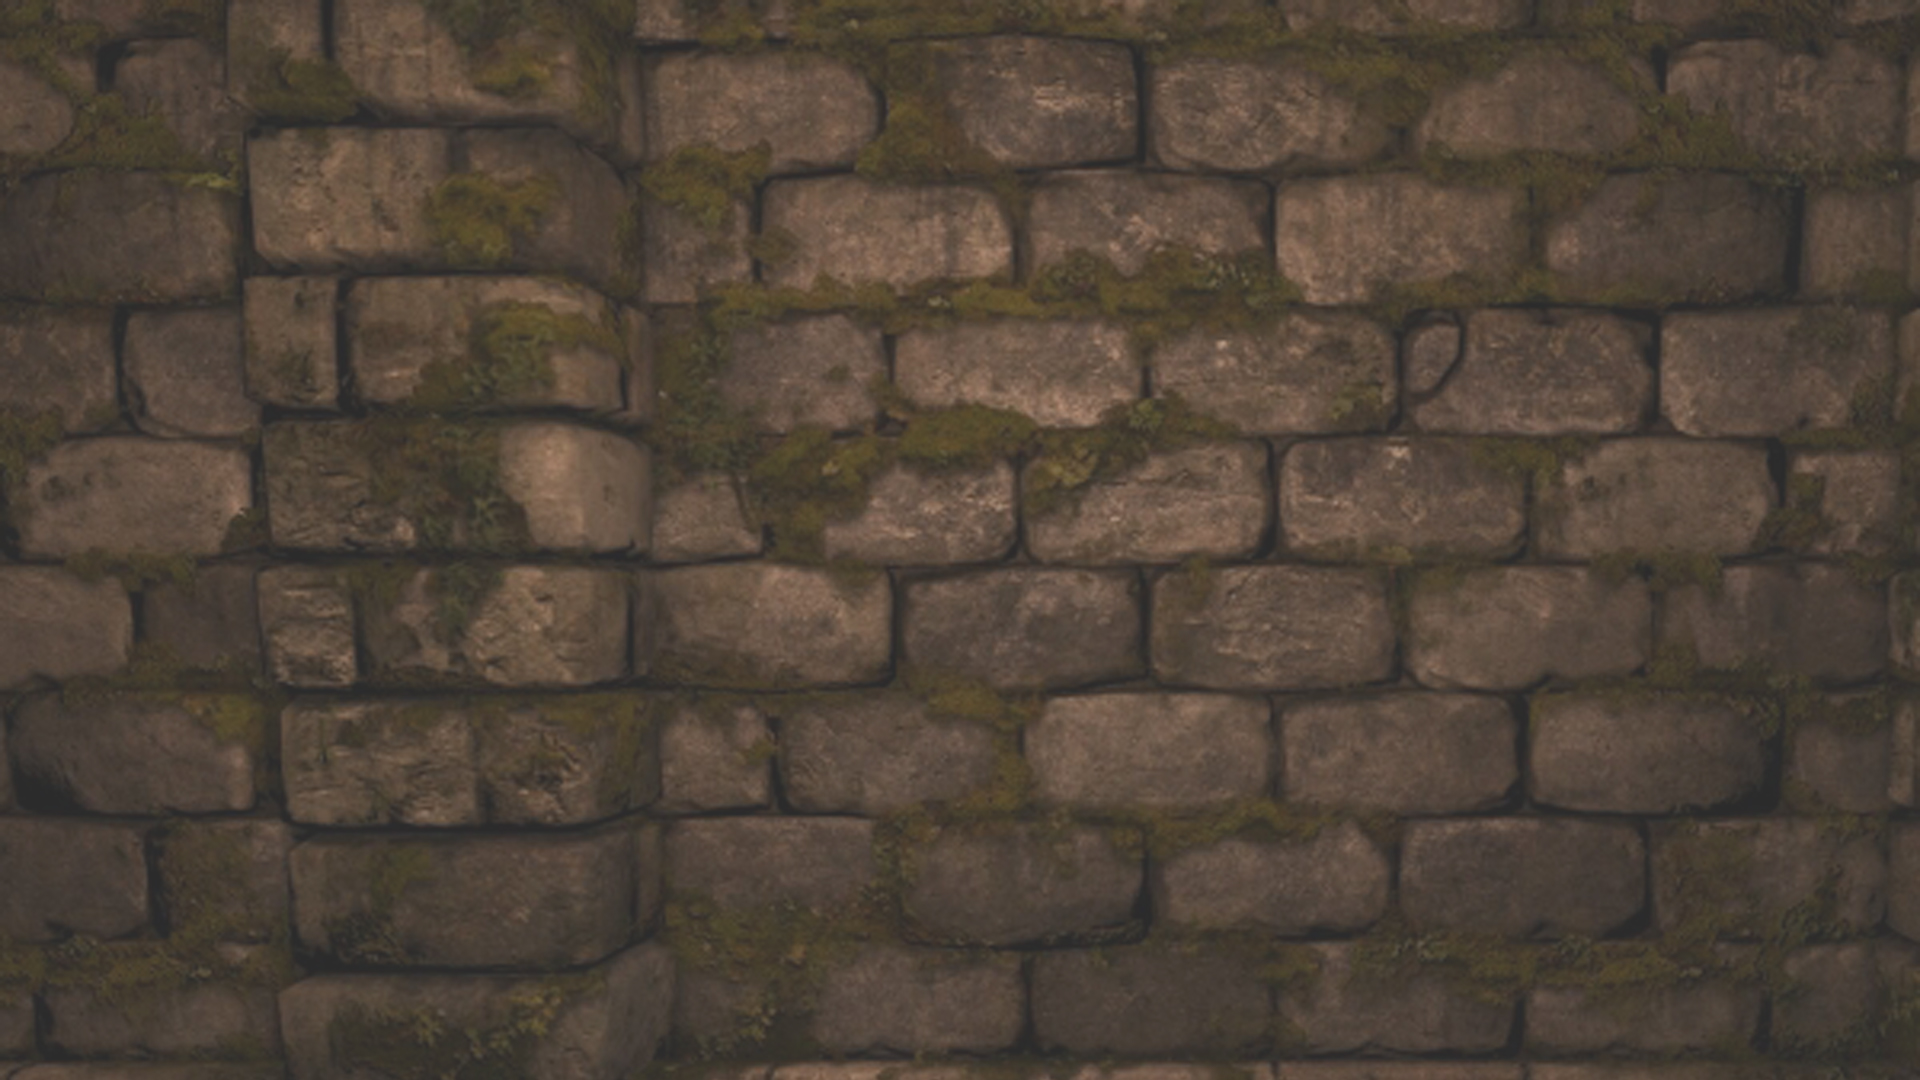
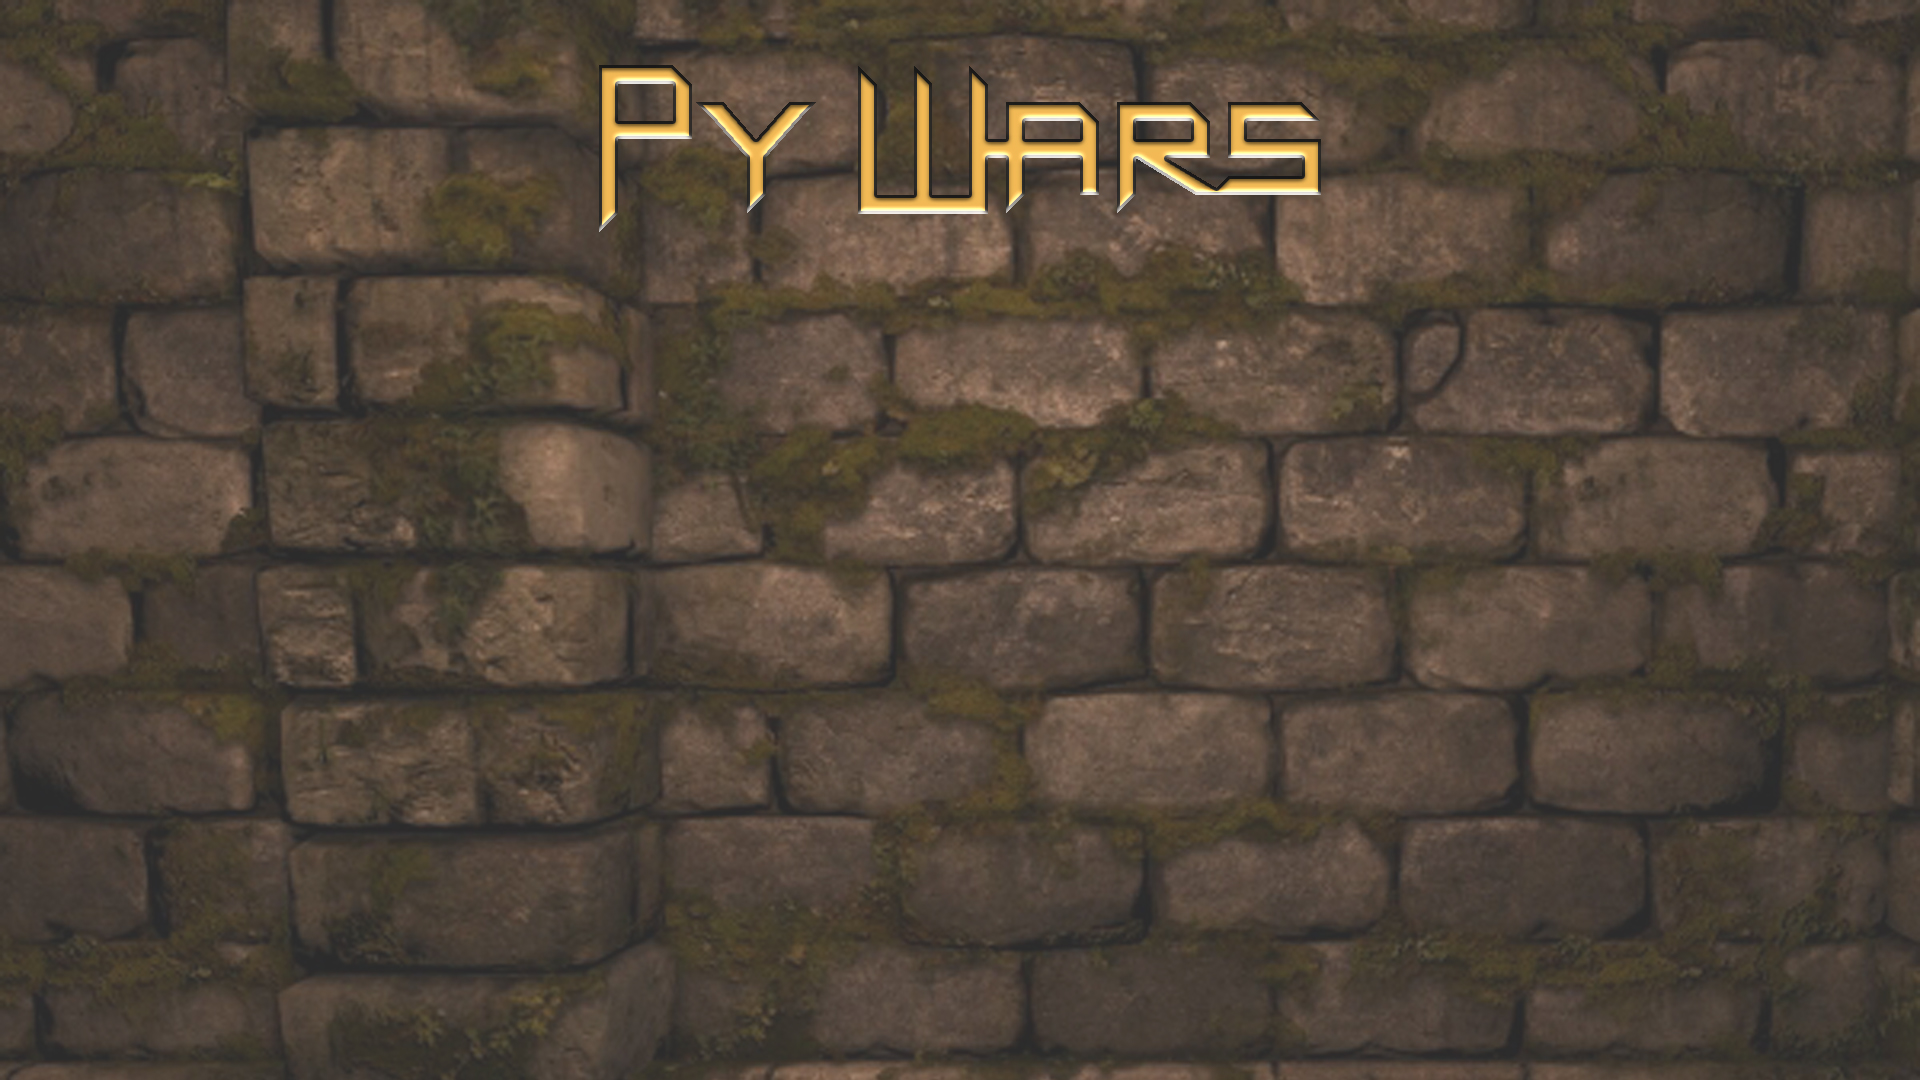
rendered background image and login button

Changed region(s): [[0.3125, 0.0611, 0.6875, 0.2139]]

diff --git a/mudclient/src/App.js b/mudclient/src/App.js
@@ -1,23 +1,25 @@
 import React, { Component } from 'react'
 import { Route } from "react-router-dom";
 import { connect } from "react-redux";
-import BackgroundImage from '../src/components/BackgroundComponents/Background'
+import BackgroundImage from './components/ImageComponents/Background'
+import LoginButton from './components/ImageComponents/LoginButton'
+import HeaderLogo from './components/HeaderComponents/Header'
 
 
 
-export default class App extends Component {
+class App extends Component {
   render() {
     return (
       <div className="App">
-        <BackgroundImage/>
-        <Route exact path="/" component={} />
+        <BackgroundImage />
+        <LoginButton/>
+        
+        {/* <Route exact path="/" component={} />
         <Route path='/login' component={} />
-        <PrivateRoute path='/pyWar' component={} />
+        <PrivateRoute path='/pyWar' component={} /> */}
       </div>
     )
   }
 }
 
-
-export default App;
-
+export default App

diff --git a/mudclient/public/index.html b/mudclient/public/index.html
@@ -56,8 +56,7 @@
       To create a production bundle, use `npm run build` or `yarn build`.
     -->
   </body>
-    {% load static %}
-    <script src="{% static "frontend/main.js" %}"></script>
+    
     <script src="https://code.jquery.com/jquery-3.3.1.slim.min.js" integrity="sha384-q8i/X+965DzO0rT7abK41JStQIAqVgRVzpbzo5smXKp4YfRvH+8abtTE1Pi6jizo" crossorigin="anonymous"></script>
     <script src="https://cdnjs.cloudflare.com/ajax/libs/popper.js/1.14.7/umd/popper.min.js" integrity="sha384-UO2eT0CpHqdSJQ6hJty5KVphtPhzWj9WO1clHTMGa3JDZwrnQq4sF86dIHNDz0W1" crossorigin="anonymous"></script>
     <script src="https://stackpath.bootstrapcdn.com/bootstrap/4.3.1/js/bootstrap.min.js" integrity="sha384-JjSmVgyd0p3pXB1rRibZUAYoIIy6OrQ6VrjIEaFf/nJGzIxFDsf4x0xIM+B07jRM" crossorigin="anonymous"></script>

diff --git a/mudclient/src/components/ImageComponents/Background.js b/mudclient/src/components/ImageComponents/Background.js
@@ -1,10 +1,10 @@
 import React from 'react'
-import '../../design files/background.jpg'
+import background from '../../design files/background.jpg'
 
 const BackgroundImage = () => {
     return (
         <div>
-            <img src='../../design files/background.jpg' alt="backgorund-image"/>
+            <img src={background} alt="Background Image" className="background"/>
         </div>
     );
 }

diff --git a/mudclient/src/components/ImageComponents/LoginButton.js b/mudclient/src/components/ImageComponents/LoginButton.js
@@ -1,0 +1,12 @@
+import React from 'react'
+import loginButton from '../../design files/loginbutton.png'
+
+const LoginButton = () => {
+    return (
+        <div>
+            <img src={loginButton} alt="login button" className="login-button"/>
+        </div>
+    );
+}
+
+export default LoginButton
